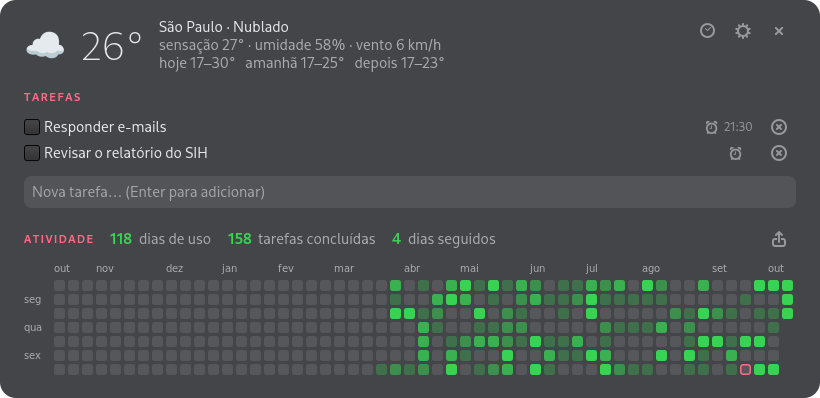
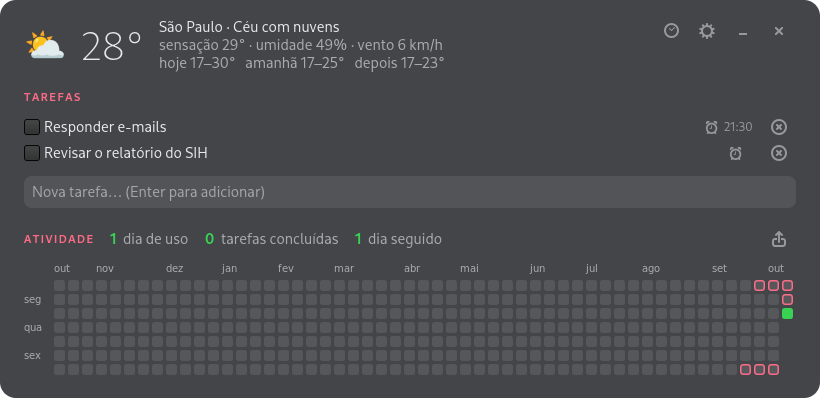
icone, atalho

diff --git a/gnome-extension/constancia@hendesson.github.io/extension.js b/gnome-extension/constancia@hendesson.github.io/extension.js
@@ -1,12 +1,56 @@
-// Prende a janela do painel do Constância à área de trabalho:
-// atrás das outras janelas, em todas as áreas de trabalho e na posição salva.
+// Prende a janela do painel do Constância à área de trabalho (atrás das outras
+// janelas, em todas as áreas de trabalho e na posição salva) e põe dois atalhos
+// para abri-lo: um ícone na barra superior, ao lado dos ícones do sistema, e um
+// botão no menu rápido (o do volume, rede e energia).
+import Clutter from 'gi://Clutter';
+import Gio from 'gi://Gio';
 import GLib from 'gi://GLib';
+import GObject from 'gi://GObject';
+import Shell from 'gi://Shell';
+import St from 'gi://St';
 import {Extension} from 'resource:///org/gnome/shell/extensions/extension.js';
 import * as Main from 'resource:///org/gnome/shell/ui/main.js';
+import * as PanelMenu from 'resource:///org/gnome/shell/ui/panelMenu.js';
+import * as QuickSettings from 'resource:///org/gnome/shell/ui/quickSettings.js';
 
 const APP_ID = 'io.github.hendesson.constancia';
 const TITULO = 'Constância';
 const MARGEM = 24;
+
+// Abre o painel (ou o traz para a frente, se já estiver aberto)
+function abrirPainel() {
+    Shell.AppSystem.get_default().lookup_app(`${APP_ID}.desktop`)?.activate();
+}
+
+// Botão "Constância" no menu rápido
+const Atalho = GObject.registerClass(
+class Atalho extends QuickSettings.QuickToggle {
+    _init(icone) {
+        super._init({
+            title: TITULO,
+            subtitle: 'Abrir o painel',
+            gicon: icone,
+            toggleMode: false,
+        });
+        this.connect('clicked', () => {
+            Main.panel.closeQuickSettings();
+            abrirPainel();
+        });
+    }
+});
+
+const Indicador = GObject.registerClass(
+class Indicador extends QuickSettings.SystemIndicator {
+    _init(icone) {
+        super._init();
+        this.quickSettingsItems.push(new Atalho(icone));
+    }
+
+    destroy() {
+        this.quickSettingsItems.forEach(item => item.destroy());
+        super.destroy();
+    }
+});
 
 export default class ConstanciaExtension extends Extension {
     enable() {
@@ -16,12 +60,42 @@ export default class ConstanciaExtension extends Extension {
         this._timers = new Set();
         this._salvarId = 0;
         this._criada = global.display.connect('window-created', (_d, janela) => this._observar(janela));
+        // O painel fica no fundo, mas vem para a frente enquanto está em uso (ao ser aberto
+        // pelo ícone ou clicado) e volta para o fundo quando o foco vai para outra janela.
+        this._foco = global.display.connect('notify::focus-window', () => {
+            for (const janela of this._fixadas.keys()) {
+                if (global.display.focus_window !== janela)
+                    janela.lower();
+            }
+        });
+        const icone = Gio.icon_new_for_string(`${this.path}/constancia-symbolic.svg`);
+        this._indicador = new Indicador(icone);
+        Main.panel.statusArea.quickSettings.addExternalIndicator(this._indicador);
+
+        // Ícone na barra superior, logo à esquerda dos ícones do sistema: um clique abre o painel
+        this._botao = new PanelMenu.Button(0.0, TITULO, true);
+        this._botao.add_child(new St.Icon({gicon: icone, style_class: 'system-status-icon'}));
+        this._botao.connect('button-press-event', () => {
+            abrirPainel();
+            return Clutter.EVENT_STOP;
+        });
+        this._botao.connect('touch-event', (_ator, evento) => {
+            if (evento.type() === Clutter.EventType.TOUCH_END)
+                abrirPainel();
+            return Clutter.EVENT_PROPAGATE;
+        });
+        const ultimo = Math.max(0, Main.panel._rightBox.get_n_children() - 1);
+        Main.panel.addToStatusArea(this.uuid, this._botao, ultimo, 'right');
         for (const ator of global.get_window_actors())
             this._fixarSeForPainel(ator.meta_window);
     }
 
     disable() {
         global.display.disconnect(this._criada);
+        global.display.disconnect(this._foco);
+        this._indicador.destroy();
+        this._botao.destroy();
+        this._indicador = this._botao = null;
         for (const [janela, id] of this._esperando)
             janela.disconnect(id);
         for (const janela of [...this._fixadas.keys()])
@@ -51,7 +125,6 @@ export default class ConstanciaExtension extends Extension {
         janela.stick();
         janela.lower();
         this._fixadas.set(janela, [
-            janela.connect('raised', () => janela.lower()),
             janela.connect('position-changed', () => this._agendarSalvar(janela)),
             janela.connect('unmanaged', () => this._soltar(janela, false)),
         ]);

diff --git a/README.md b/README.md
@@ -14,6 +14,12 @@ concluída conta mais**.
 - O ícone de despertador ao lado da tarefa põe um **alarme** nela.
 - Passe o mouse sobre um quadradinho para ver o que aconteceu naquele dia.
 - Arraste o painel por qualquer ponto para movê-lo.
+- Os botões no canto minimizam ou fecham o painel. **Fechar só o esconde**: o
+  programa continua em segundo plano (alarmes e lembretes seguem valendo) e
+  basta clicar no ícone do Constância para o painel voltar. Para ter o ícone
+  sempre à mão, fixe-o no dock ou na barra de tarefas (no GNOME: clique direito
+  no ícone → "Fixar no dash"). Para encerrar de
+  vez, use *Configurações → Encerrar o Constância*.
 - O relógio no canto abre o **histórico**; a engrenagem abre as
   **configurações**.
 
@@ -94,12 +100,20 @@ alarmes e desenho são unidos sem conflito; cores e demais configurações ficam
 por computador. Use um repositório privado: as suas tarefas ficam nele em texto
 simples.
 
-## Painel preso à área de trabalho (GNOME)
+## Extensão do GNOME: painel preso e atalhos na barra superior
 
-No GNOME, o instalador também instala uma pequena extensão que deixa o painel
-atrás das outras janelas, visível em todas as áreas de trabalho, e lembra onde
-você o colocou (na primeira vez ele vai para o canto superior direito). Ela
-passa a valer depois de sair da sessão e entrar de novo. Para desligar:
+No GNOME, o instalador também instala uma pequena extensão que:
+
+- deixa o painel **preso à área de trabalho**: atrás das outras janelas,
+  visível em todas as áreas de trabalho e lembrando onde você o colocou (na
+  primeira vez ele vai para o canto superior direito). Enquanto você usa o
+  painel ele vem para a frente, e volta para o fundo ao trocar de janela;
+- põe um **ícone na barra superior**, ao lado dos ícones de volume, rede e
+  energia: um clique abre o painel;
+- põe um botão **Constância** no **menu rápido** do sistema (o que abre ao
+  clicar nesses ícones), que também abre o painel.
+
+Ela passa a valer depois de sair da sessão e entrar de novo. Para desligar:
 
 ```sh
 gnome-extensions disable constancia@hendesson.github.io
